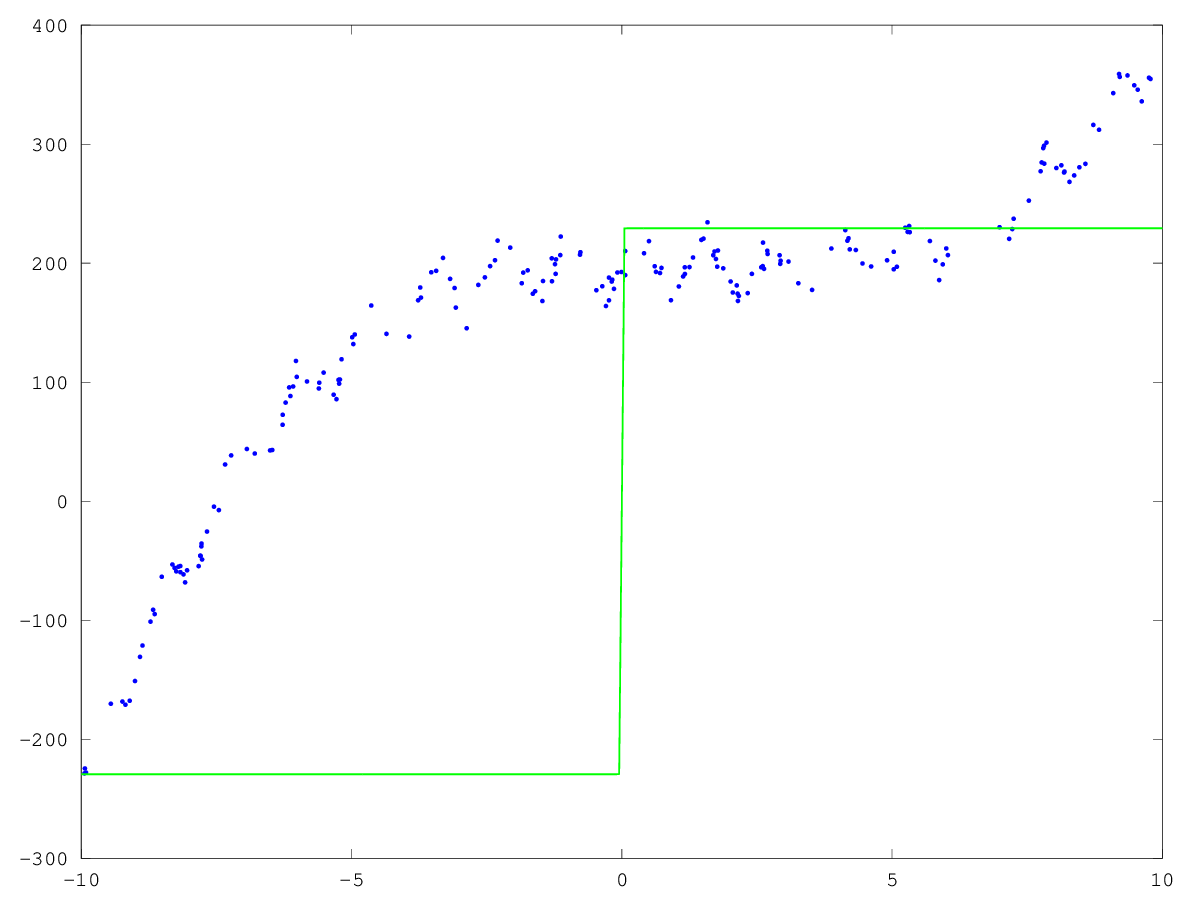
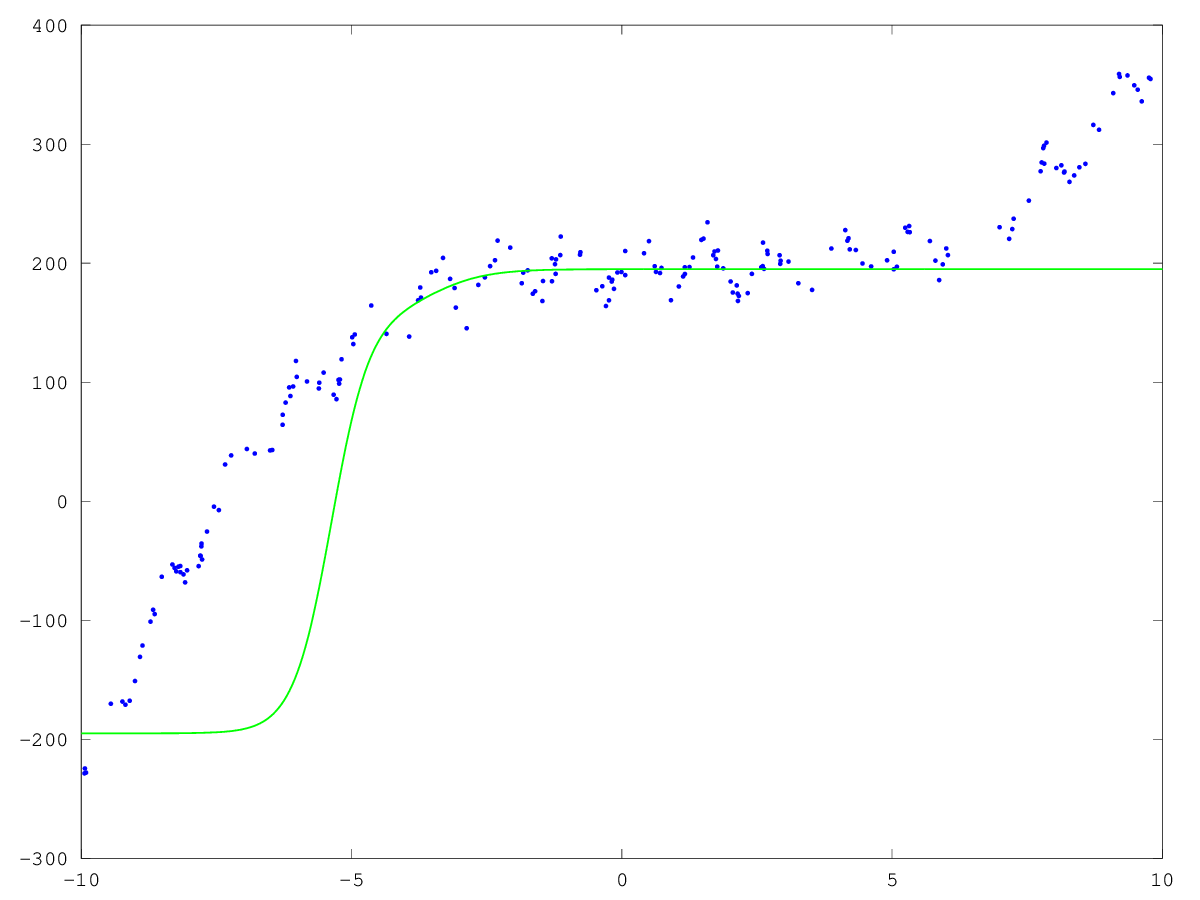
a6: lowered error on p2

diff --git a/a6-raw/a6/MLPregressionLoss_old.m b/a6-raw/a6/MLPregressionLoss_old.m
@@ -1,0 +1,76 @@
+function [f,g] = MLPregressionLoss(w,X,y,nHidden)
+
+[nInstances,nVars] = size(X);
+
+% Form Weights
+inputWeights = reshape(w(1:nVars*nHidden(1)),nVars,nHidden(1));
+offset = nVars*nHidden(1);
+for h = 2:length(nHidden)
+  hiddenWeights{h-1} = reshape(w(offset+1:offset+nHidden(h-1)*nHidden(h)),nHidden(h-1),nHidden(h));
+  offset = offset+nHidden(h-1)*nHidden(h);
+end
+outputWeights = w(offset+1:offset+nHidden(end));
+
+% Initialize gradient vector
+f = 0;
+if nargout > 1
+    gInput = zeros(size(inputWeights));
+    for h = 2:length(nHidden)
+       gHidden{h-1} = zeros(size(hiddenWeights{h-1})); 
+    end
+    gOutput = zeros(size(outputWeights));
+end
+
+% Compute Output
+for i = 1:nInstances
+    ip{1} = X(i,:)*inputWeights;
+    fp{1} = tanh(ip{1});
+    for h = 2:length(nHidden)
+        ip{h} = fp{h-1}*hiddenWeights{h-1};
+        fp{h} = tanh(ip{h});
+    end
+    yhat = fp{end}*outputWeights;
+    
+    relativeErr = yhat-y(i);
+    f = f + relativeErr^2;
+    
+    if nargout > 1
+        err = 2*relativeErr;
+
+        % Output Weights
+        gOutput = gOutput + err*fp{end}';
+
+        if length(nHidden) > 1
+            % Last Layer of Hidden Weights
+            backprop = err*(sech(ip{end}).^2.*outputWeights');
+            gHidden{end} = gHidden{end} + fp{end-1}'*backprop;
+
+            % Other Hidden Layers
+            for h = length(nHidden)-2:-1:1
+                backprop = (backprop*hiddenWeights{h+1}').*sech(ip{h+1}).^2;
+                gHidden{h} = gHidden{h} + fp{h}'*backprop;
+            end
+
+            % Input Weights
+            backprop = (backprop*hiddenWeights{1}').*sech(ip{1}).^2;
+            gInput = gInput + X(i,:)'*backprop;
+        else
+            % Input Weights
+            gInput = gInput + err*X(i,:)'*(sech(ip{end}).^2.*outputWeights');
+        end
+
+    end
+    
+end
+
+% Put Gradient into vector
+if nargout > 1
+    g = zeros(size(w));
+    g(1:nVars*nHidden(1)) = gInput(:);
+    offset = nVars*nHidden(1);
+    for h = 2:length(nHidden)
+        g(offset+1:offset+nHidden(h-1)*nHidden(h)) = gHidden{h-1};
+        offset = offset+nHidden(h-1)*nHidden(h);
+    end
+    g(offset+1:offset+nHidden(end)) = gOutput;
+end

diff --git a/a6/example_nnet.m b/a6/example_nnet.m
@@ -1,8 +1,10 @@
 load basisData.mat
 [n,d] = size(X);
 
+d+=1
+
 % Choose network structure
-nHidden = [3 3 3];
+nHidden = [6];
 
 % Count number of parameters and initialize weights 'w'
 nParams = d*nHidden(1);
@@ -13,17 +15,21 @@ nParams = nParams+nHidden(end);
 w = randn(nParams,1);
 prevw = w;
 
+function xb = applyBasis(X)
+  xb = [ones(rows(X),1) X];
+end
+
 % Train with stochastic gradient
-maxIter = 10000;
-stepSize = 1e-1;
-funObj = @(w,i)MLPregressionLoss(w,X(i,:),y(i),nHidden);
+maxIter = 20000;
+stepSize = 2e-3;
+funObj = @(w,i)MLPregressionLoss(w,applyBasis(X(i,:)),y(i),nHidden);
 for t = 1:maxIter
 
     % The actual stochastic gradient algorithm:
     i = ceil(rand*n);
     [f,g] = funObj(w,i);
     alphat = stepSize/sqrt(t);
-    betat = 0.5;
+    betat = 0.0;
     tmpw = w;
     w = w - alphat*g + betat*(w-prevw);
     prevw = tmpw;
@@ -33,23 +39,23 @@ for t = 1:maxIter
         fprintf('Training iteration = %d\n',t-1);
         figure(1);clf;hold on
         Xhat = [-10:.05:10]';
-        yhat = MLPregressionPredict(w,Xhat,nHidden);
+        yhat = MLPregressionPredict(w,applyBasis(Xhat),nHidden);
         plot(X,y,'.');
         h=plot(Xhat,yhat,'g-','LineWidth',3);
         drawnow;
 
         % Compute training error
-        yhat = MLPregressionPredict(w,X,nHidden);
-        trainError = sum((yhat - y).^2)/rows(y);
+        yhat = MLPregressionPredict(w,applyBasis(X),nHidden);
+        trainError = sum((yhat - y).^2)./rows(y);
         fprintf('Training error = %.2f\n',trainError);
-        fprintf('Alpha = %f, Beta = %f\n', alphat, betat);
+        fprintf('Alpha = %f, Beta = %f, W = %f\n', alphat, betat, sum(abs(w)));
     end
 
 end
 
 % Compute test error
 yhat = MLPregressionPredict(w,Xtest,nHidden);
-testError = sum((yhat - ytest).^2)/rows(ytest);
+testError = sum((yhat - ytest).^2)./rows(ytest);
 fprintf('Test error = %.2f\n',testError);
 
 print -dpng ./2.png

diff --git a/a6-raw/a6/MLPregressionLoss.m b/a6-raw/a6/MLPregressionLoss.m
@@ -11,19 +11,15 @@ for layer = 2:length(nHidden) % Weight matrix W(m) for m > 1
 end
 w = Ww(startIndex+1:startIndex+nHidden(end)); % Final weight vector 'w'
 
-%h = @tanh; % Activation function
-%dh = @(z) sech(z).^2; % Derivative of activiation function
-
-% Use sigmoid for activation function instead.
-h = @sigmoid;
-dh = @(z) sigmoid(z).*(1-sigmoid(z));
+h = @tanh; % Activation function
+dh = @(z) sech(z).^2; % Derivative of activiation function
 
 % Initialize gradient vector
 f = 0;
 if nargout > 1
     gradInput = zeros(size(W1));
     for layer = 2:length(nHidden)
-       gradHidden{layer-1} = zeros(size(Wm{layer-1}));
+       gradHidden{layer-1} = zeros(size(Wm{layer-1})); 
     end
     gradOutput = zeros(size(w));
 end
@@ -37,10 +33,10 @@ for i = 1:nInstances
         z{layer} = h(innerProduct{layer});
     end
     yhat = z{end}*w;
-
+    
     r = yhat-y(i);
     f = f + r^2;
-
+    
     if nargout > 1
         dr = 2*r;
         err = dr;
@@ -68,7 +64,7 @@ for i = 1:nInstances
         end
 
     end
-
+    
 end
 
 % Put Gradient into vector
@@ -82,14 +78,3 @@ if nargout > 1
     end
     g(startIndex+1:startIndex+nHidden(end)) = gradOutput;
 end
-
-% Add an L2 regularizer.
-%f += sum(Ww.^2)/2;
-%g += Ww;
-
-end
-
-function [z] = sigmoid(y)
-z = ones(size(y))./(1+exp(-y));
-end
-

diff --git a/a6-raw/a6/example_nnet.m b/a6-raw/a6/example_nnet.m
@@ -1,0 +1,37 @@
+load basisData.mat
+[n,d] = size(X);
+
+% Choose network structure
+nHidden = [3];
+
+% Count number of parameters and initialize weights 'w'
+nParams = d*nHidden(1);
+for h = 2:length(nHidden)
+    nParams = nParams+nHidden(h-1)*nHidden(h);
+end
+nParams = nParams+nHidden(end);
+w = randn(nParams,1);
+
+% Train with stochastic gradient
+maxIter = 10000;
+stepSize = 1e-4;
+funObj = @(w,i)MLPregressionLoss(w,X(i,:),y(i),nHidden);
+for t = 1:maxIter
+
+    % The actual stochastic gradient algorithm:
+    i = ceil(rand*n);
+    [f,g] = funObj(w,i);
+    w = w - stepSize*g;
+        
+    % Every few iterations, plot the data/model:
+    if mod(t-1,round(maxIter/100)) == 0
+        fprintf('Training iteration = %d\n',t-1);
+        figure(1);clf;hold on
+        Xhat = [-10:.05:10]';
+        yhat = MLPregressionPredict(w,Xhat,nHidden);
+        plot(X,y,'.');
+        h=plot(Xhat,yhat,'g-','LineWidth',3);
+        drawnow;
+    end
+    
+end

diff --git a/a6-raw/a6/MLPregressionPredict.m b/a6-raw/a6/MLPregressionPredict.m
@@ -1,0 +1,26 @@
+function [y] = MLPregressionPredict(Ww,X,nHidden)
+
+[nInstances,nVars] = size(X);
+
+% Form Weights
+W1 = reshape(Ww(1:nVars*nHidden(1)),nVars,nHidden(1));
+startIndex = nVars*nHidden(1);
+for layer = 2:length(nHidden)
+    Wm{layer-1} = reshape(Ww(startIndex+1:startIndex+nHidden(layer-1)*nHidden(layer)),nHidden(layer-1),nHidden(layer));
+    startIndex = startIndex+nHidden(layer-1)*nHidden(layer);
+end
+w = Ww(startIndex+1:startIndex+nHidden(end));
+
+h = @tanh; % Activation function
+
+% Compute Output
+y = zeros(nInstances,1);
+for i = 1:nInstances
+    innerProduct{1} = X(i,:)*W1;
+    z{1} = h(innerProduct{1});
+    for layer = 2:length(nHidden)
+        innerProduct{layer} = z{layer-1}*Wm{layer-1};
+        z{layer} = h(innerProduct{layer});
+    end
+    y(i) = z{end}*w;
+end

diff --git a/a6-raw/a6/MLPregressionPredict_old.m b/a6-raw/a6/MLPregressionPredict_old.m
@@ -1,0 +1,24 @@
+function [y] = MLPregressionPredict(w,X,nHidden)
+
+[nInstances,nVars] = size(X);
+
+% Form Weights
+inputWeights = reshape(w(1:nVars*nHidden(1)),nVars,nHidden(1));
+offset = nVars*nHidden(1);
+for h = 2:length(nHidden)
+    hiddenWeights{h-1} = reshape(w(offset+1:offset+nHidden(h-1)*nHidden(h)),nHidden(h-1),nHidden(h));
+    offset = offset+nHidden(h-1)*nHidden(h);
+end
+outputWeights = w(offset+1:offset+nHidden(end));
+
+% Compute Output
+y = zeros(nInstances,1);
+for i = 1:nInstances
+    ip{1} = X(i,:)*inputWeights;
+    fp{1} = tanh(ip{1});
+    for h = 2:length(nHidden)
+        ip{h} = fp{h-1}*hiddenWeights{h-1};
+        fp{h} = tanh(ip{h});
+    end
+    y(i) = fp{end}*outputWeights;
+end

diff --git a/a6/a6.md b/a6/a6.md
@@ -65,3 +65,5 @@ Changes made:
 - Used sigmoid function instead of tanh.
 - Use a decreasing step size O(1/sqrt(t))
 - Added momentum
+- Added basis
+- Added L2 regularizer (increased test error)
